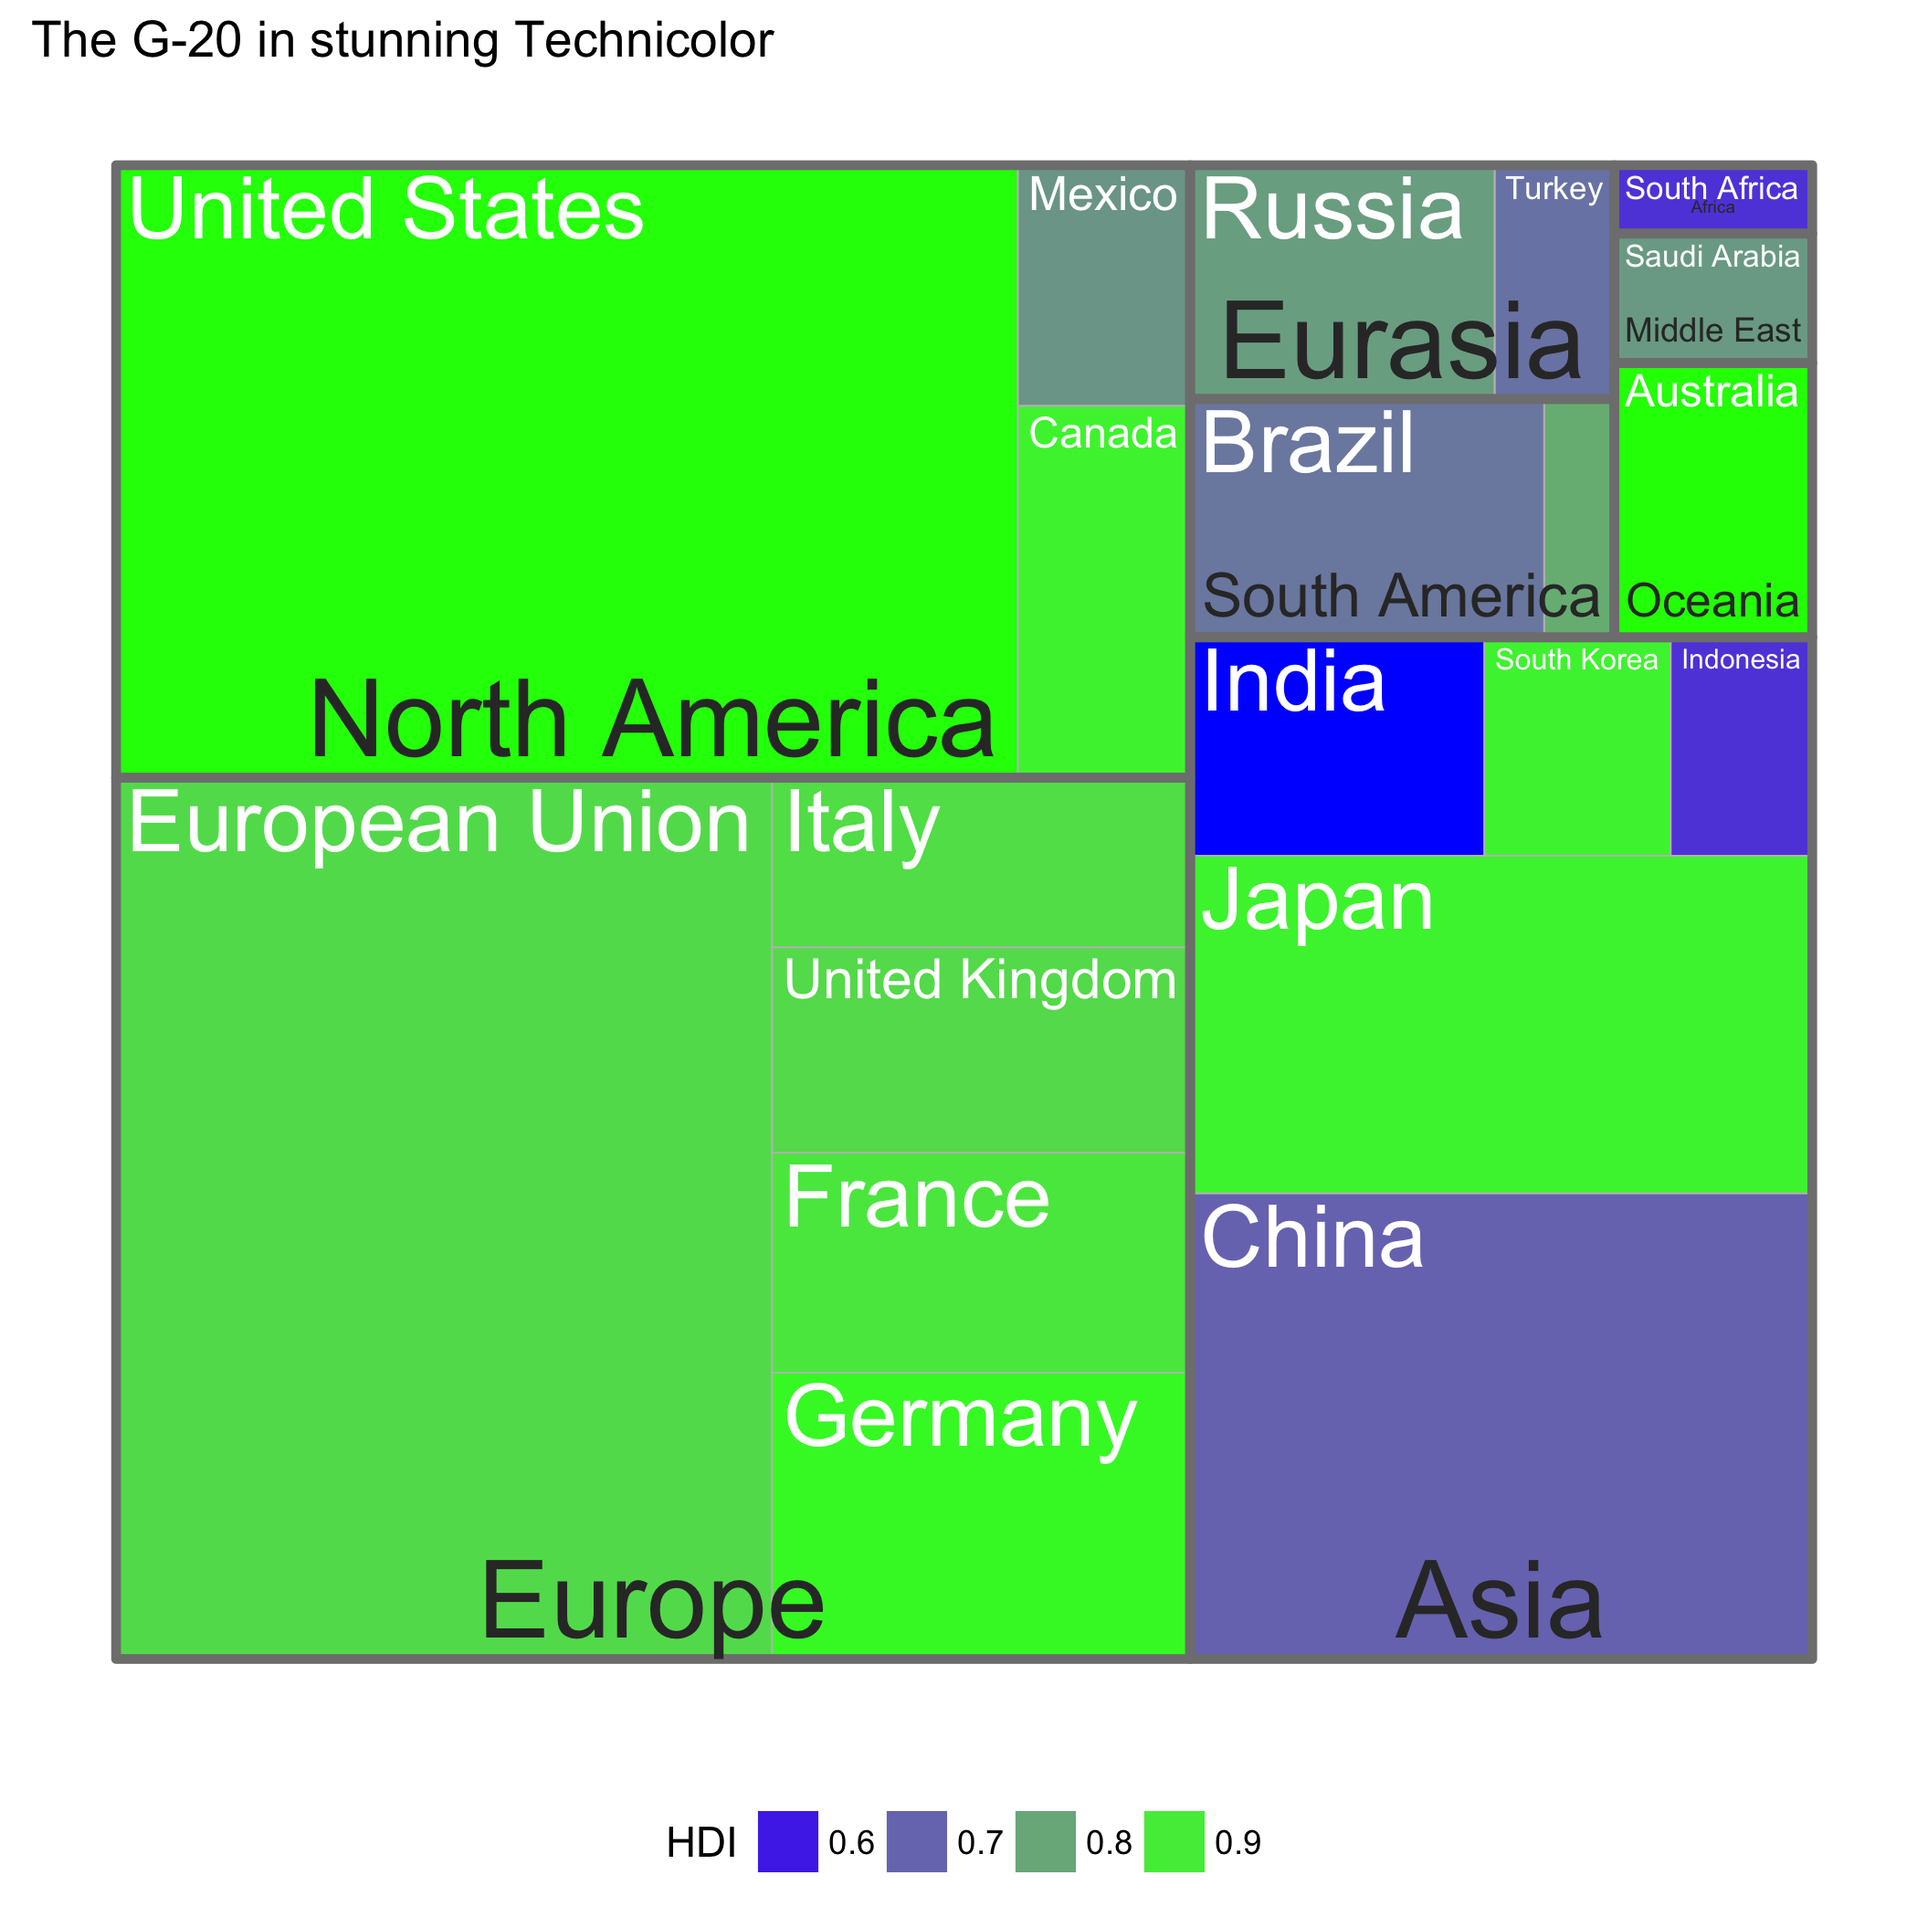
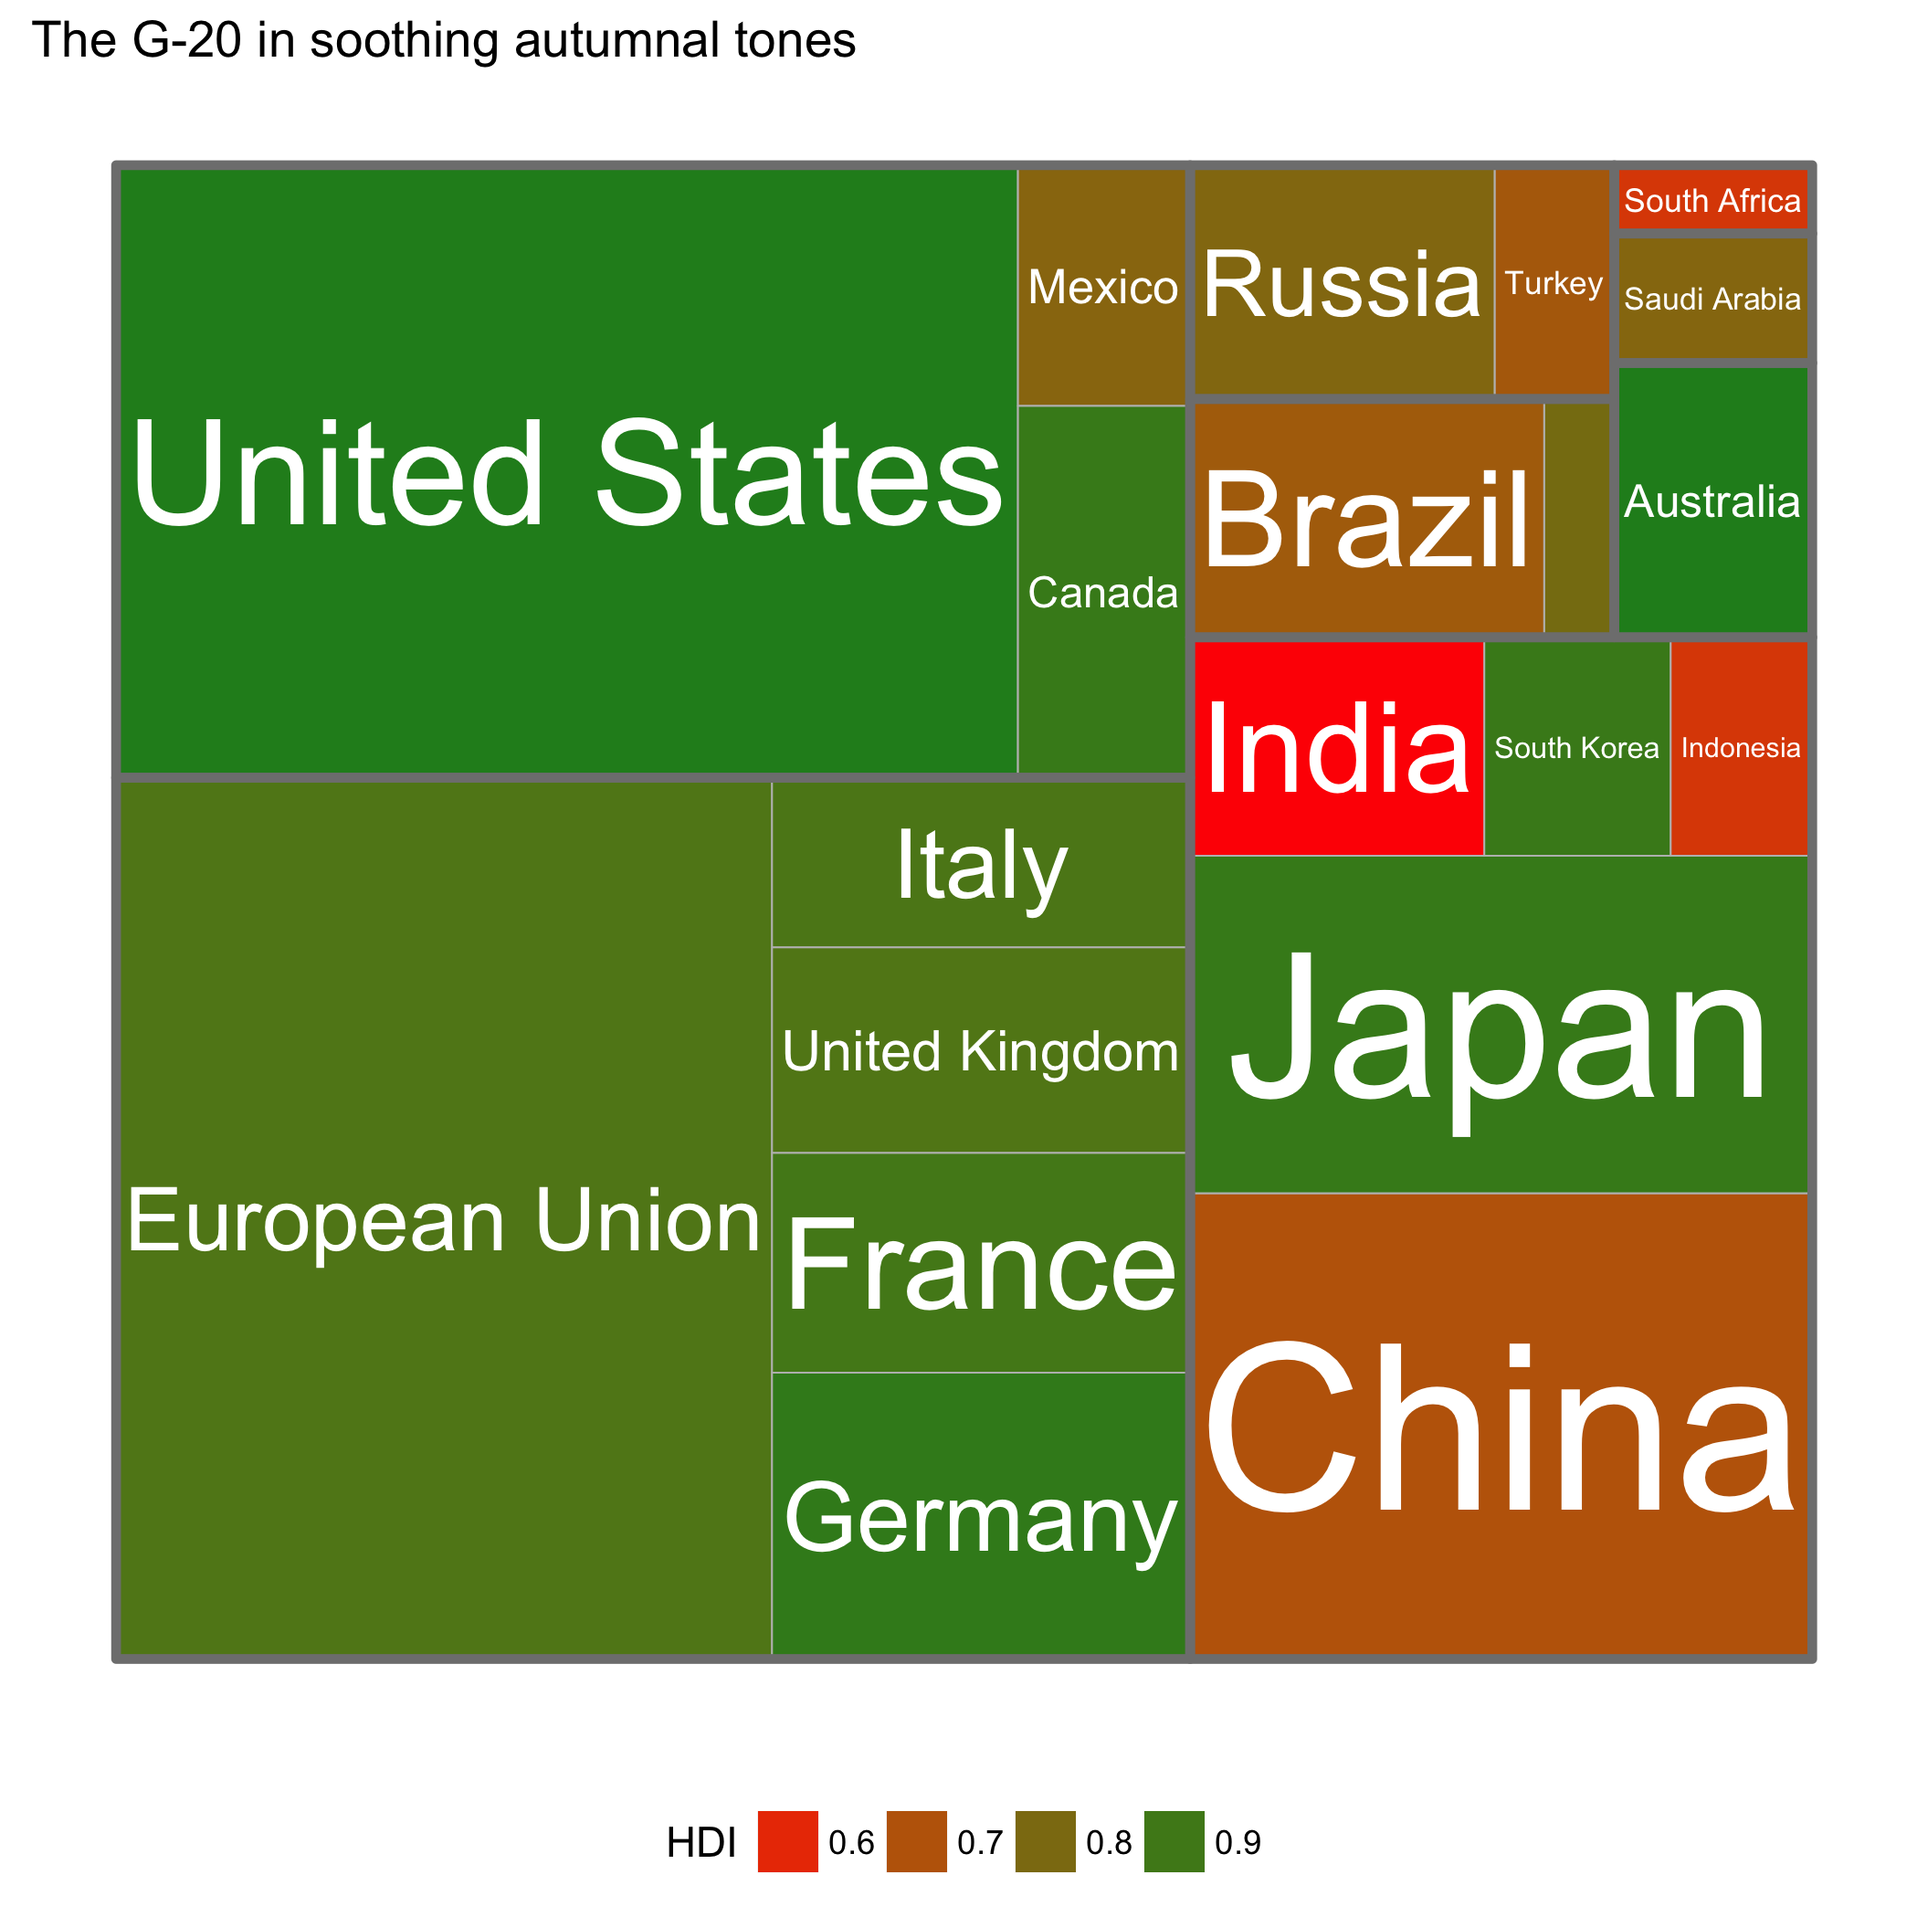
Further improvements to README

diff --git a/README.md b/README.md
@@ -188,11 +188,10 @@ Because the output of `ggplotify` is a ggplot2 object, you can modify it as you
 would any ggplot2 plot, with custom scales and other tweaks.
 
 ``` r
-treeMapPlot <- ggplotify(treeMapCoordinates)
-treeMapPlot <- treeMapPlot + scale_fill_gradient(low = "blue", high = "green",
-                                                 guide = "colourbar")
+treeMapPlot <- ggplotify(treeMapCoordinates, label.type = "fill", group.labels = F)
+treeMapPlot <- treeMapPlot + scale_fill_gradient(low = "red", high = "forestgreen")
 treeMapPlot <- treeMapPlot + theme(legend.position = "bottom")
-treeMapPlot <- treeMapPlot + ggtitle("The G-20 in stunning Technicolor")
+treeMapPlot <- treeMapPlot + ggtitle("The G-20 in soothing autumnal tones")
 treeMapPlot
 ```
 
